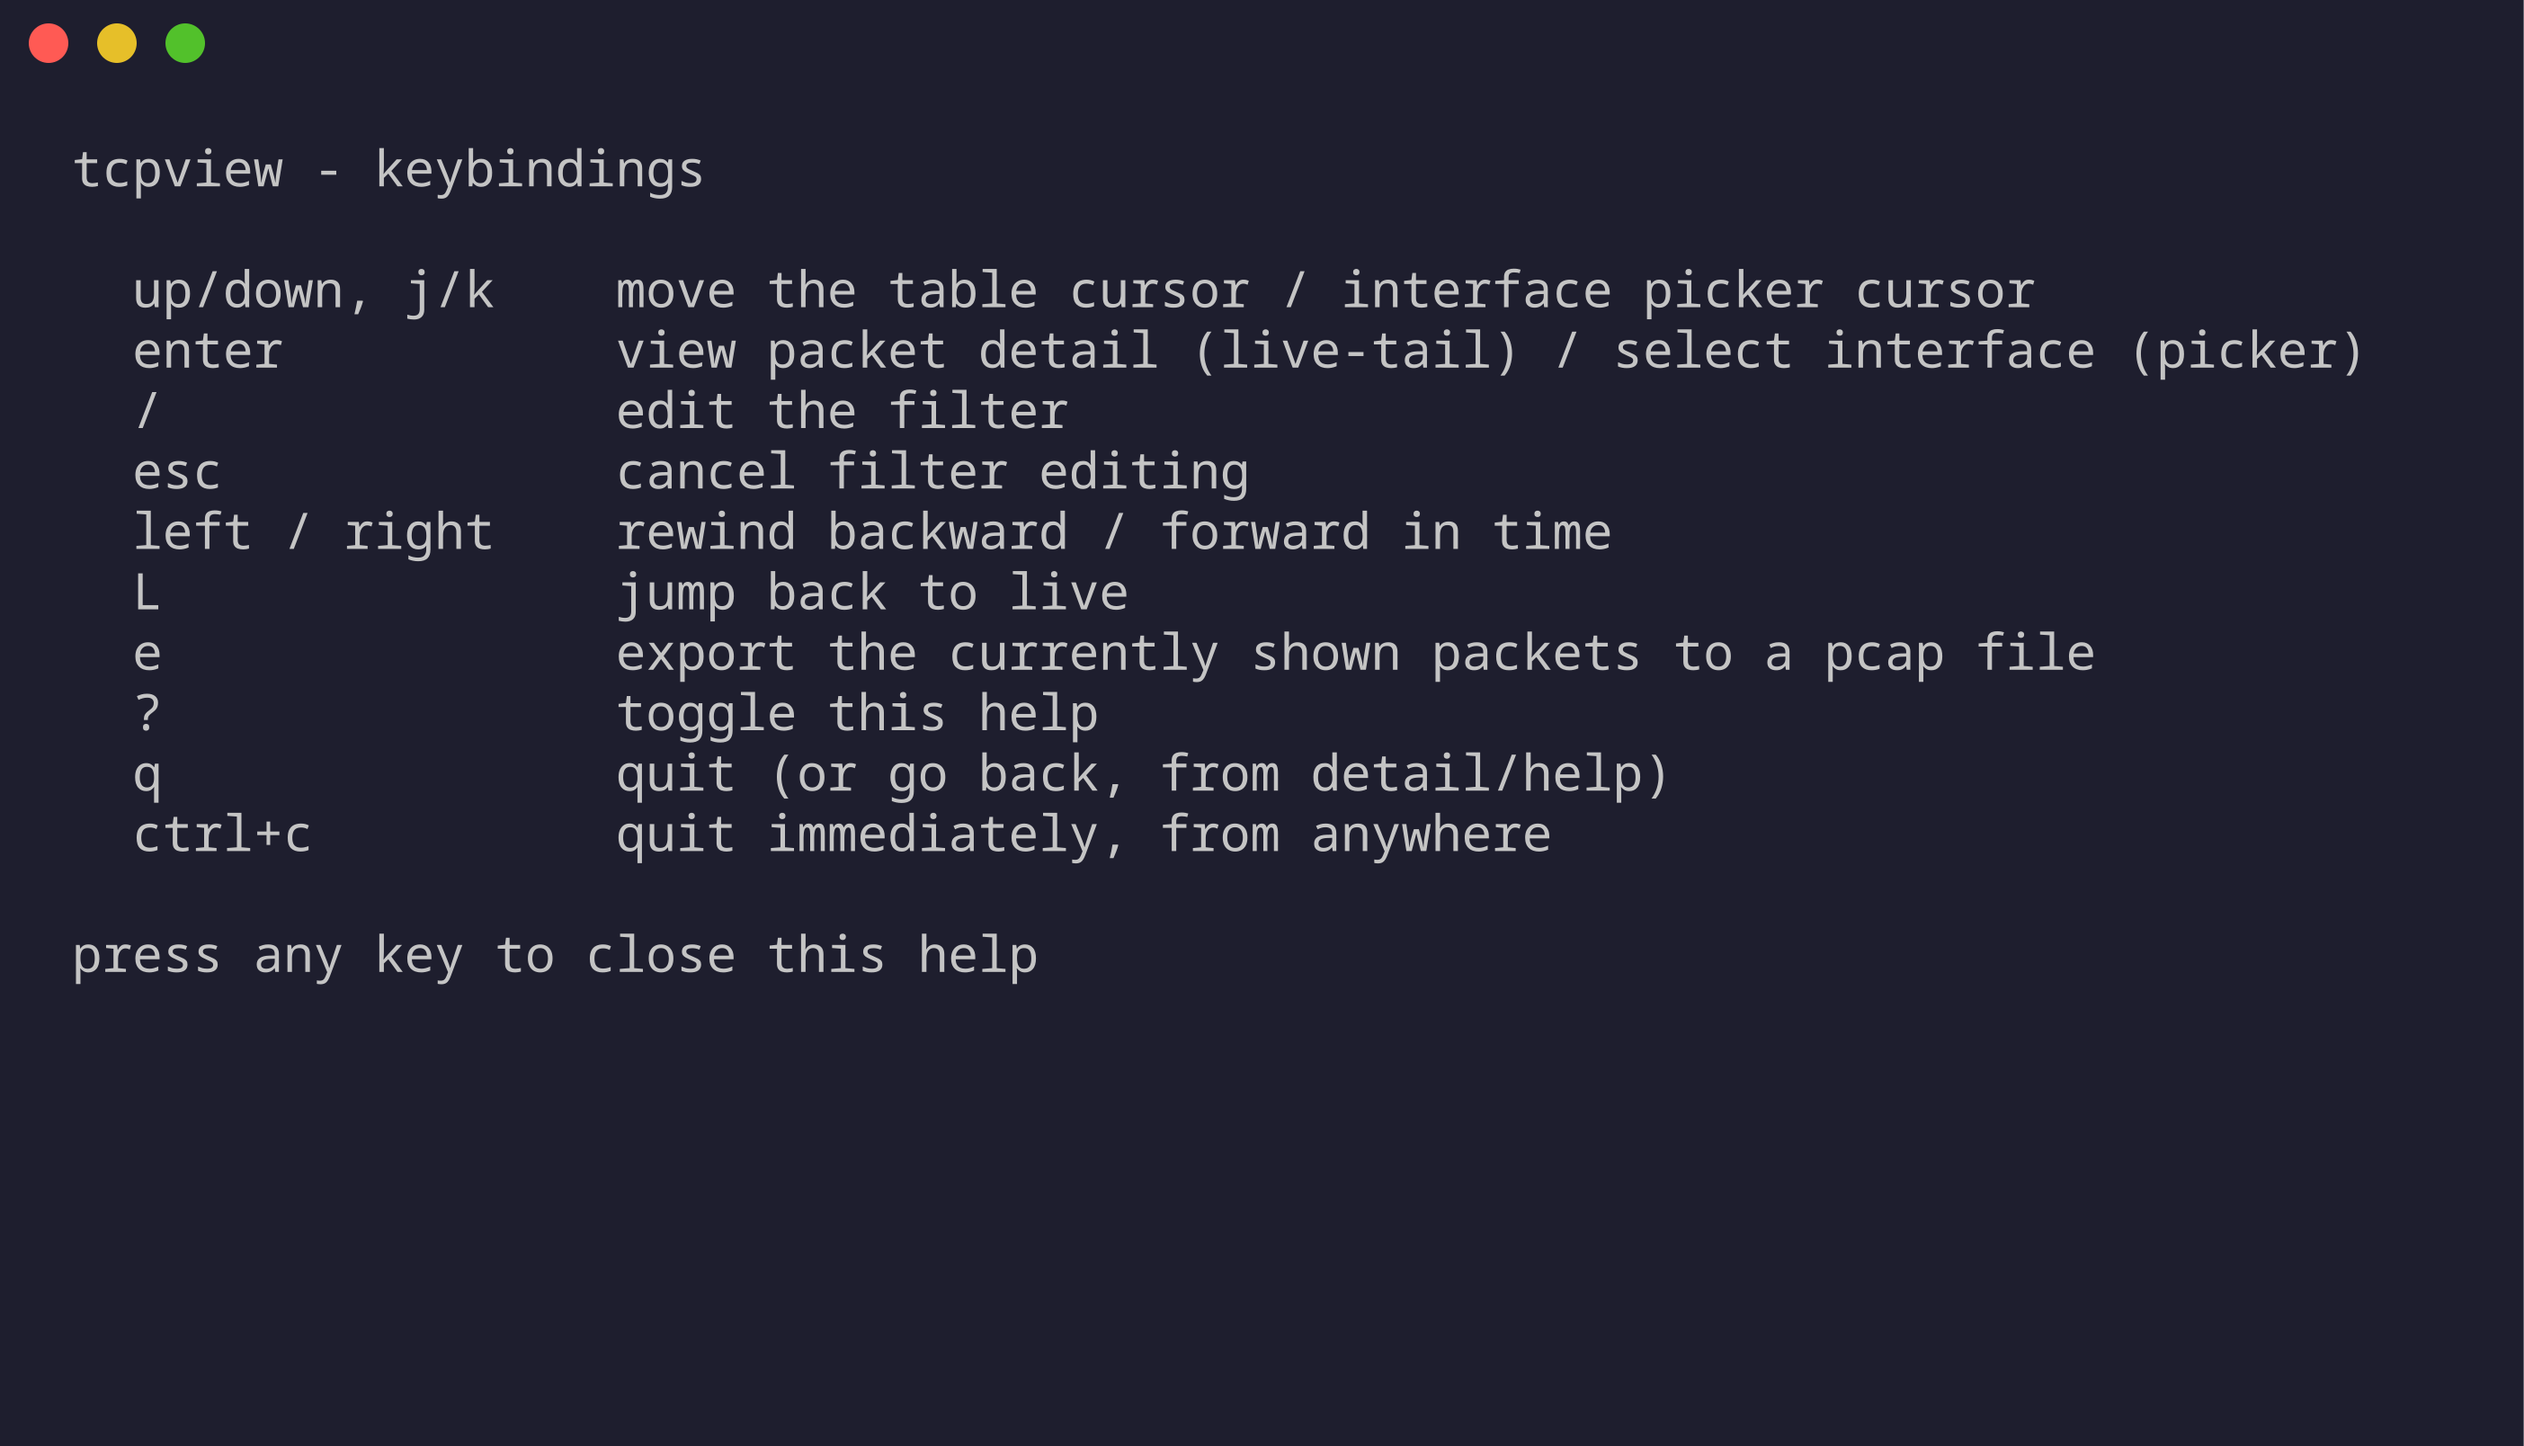
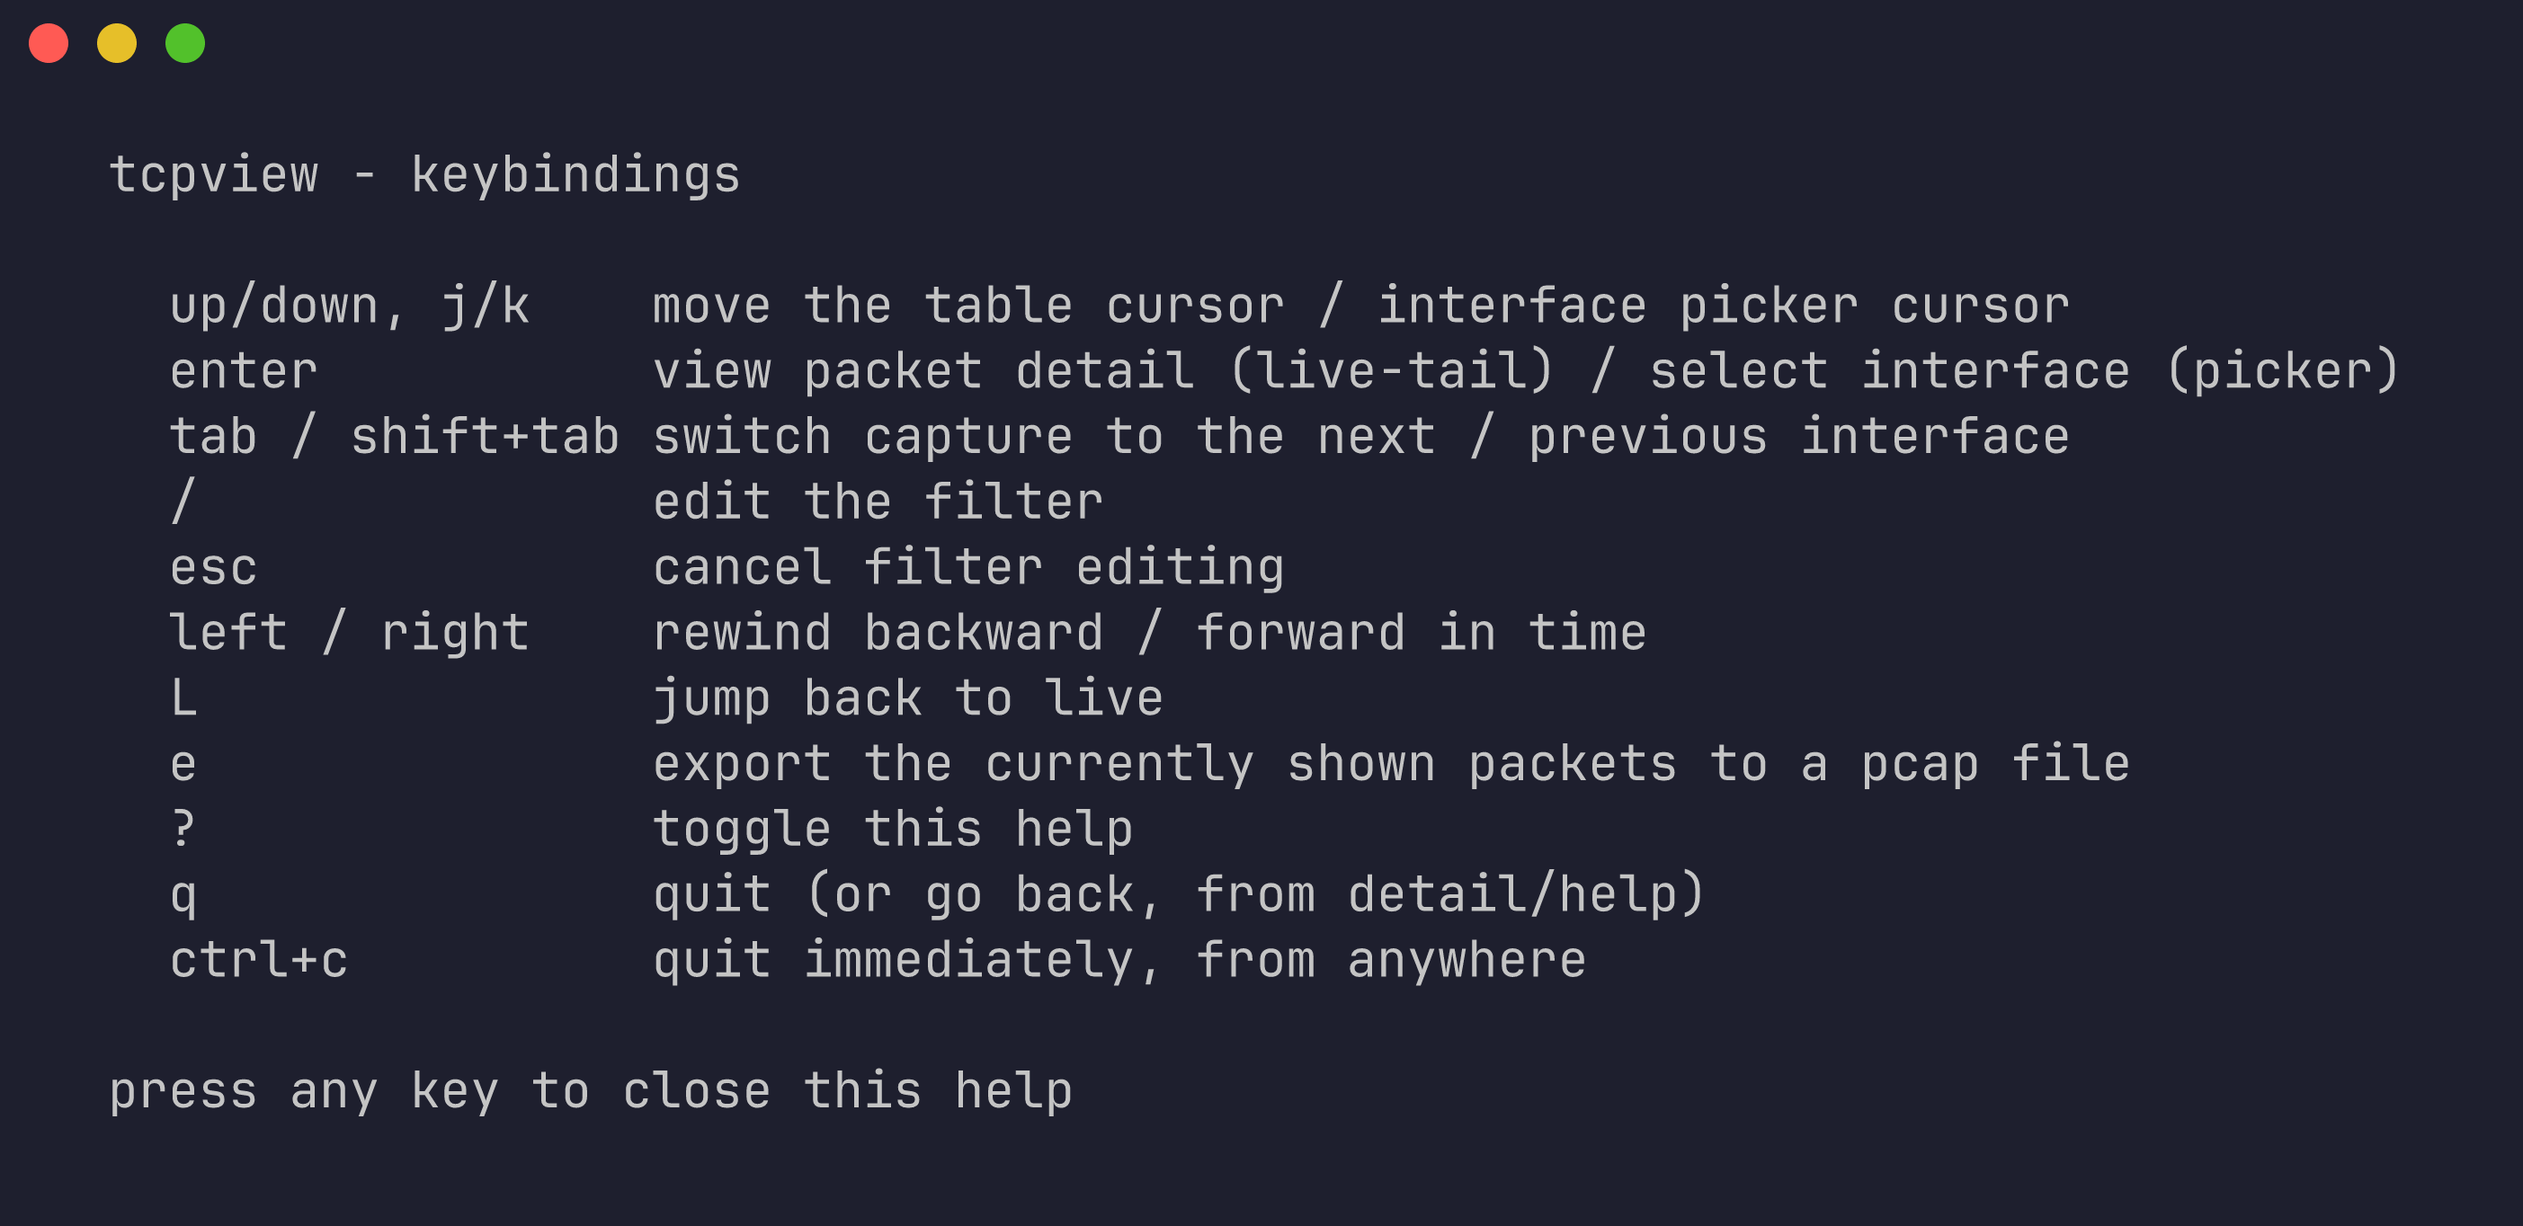
docs: refresh README screenshots for interface switching and remote picker
Retake every screenshot whose UI changed (live header now shows the
interface position and tab hint, help lists tab/shift+tab) from a real
capture, and add new ones for switching interfaces and the remote
interface picker/live view over a real SSH session.

diff --git a/README.md b/README.md
@@ -7,6 +7,8 @@ A terminal UI network traffic analyzer. No more remembering interface names, por
 - [Features](#features)
 - [A tour, in screenshots](#a-tour-in-screenshots)
   - [No `tcpdump -D` required](#no-tcpdump--d-required)
+  - [Flip through interfaces without restarting](#flip-through-interfaces-without-restarting)
+  - [Remote hosts get the same picker](#remote-hosts-get-the-same-picker)
   - [Filtering is live, not a restart](#filtering-is-live-not-a-restart)
   - [Rewind: the actually novel part](#rewind-the-actually-novel-part)
   - [Packet detail, down to the bytes](#packet-detail-down-to-the-bytes)
@@ -21,7 +23,7 @@ A terminal UI network traffic analyzer. No more remembering interface names, por
 - [Development](#development)
   - [CI / releases](#ci--releases)
 
-![tcpview live-tailing loopback traffic, filtered to proto=icmp](docs/screenshot.png)
+![tcpview live-tailing loopback traffic on lo (3 of 10 interfaces), filtered to proto=icmp](docs/screenshot.png)
 
 ## Features
 
@@ -41,9 +43,25 @@ Everything below is a real screenshot of real traffic captured on an actual mach
 
 Launching with no arguments lists every capturable interface by name and description - including the real-but-easy-to-forget ones like `any` (capture on everything at once) alongside physical NICs, bridges, and `nflog`/`nfqueue`. Pick one with `↑`/`↓` + `enter`; no prior knowledge of interface names needed.
 
-That first pick isn't final: once capturing, `tab` / `shift+tab` moves capture to the next / previous interface in the same list (wrapping at either end), so you can flip through every interface to see where traffic is actually flowing. Each switch starts the view fresh for the new interface and keeps your active filter; with the on-disk archive enabled, the previous interface's buffered packets are archived rather than dropped, so rewind can still reach them (filter on `iface=` to tell them apart).
-
 ![Interface picker listing real local interfaces](docs/screenshot-picker.png)
+
+### Flip through interfaces without restarting
+
+That first pick isn't final: once capturing, `tab` / `shift+tab` moves capture to the next / previous interface in the same list (wrapping at either end), so you can flip through every interface to see where traffic is actually flowing. The header always shows which one you're on. Here `shift+tab` has moved from the loopback capture above to `eth0`, where the only traffic is HTTPS out to the internet:
+
+![Live capture on eth0, interface 1 of 10, after switching with shift+tab](docs/screenshot-switch.png)
+
+Each switch starts the view fresh for the new interface and keeps your active filter; with the on-disk archive enabled, the previous interface's buffered packets are archived rather than dropped, so rewind can still reach them (filter on `iface=` to tell them apart).
+
+### Remote hosts get the same picker
+
+`-remote user@host` on its own runs `tcpdump -D` on the host over SSH and lists *its* interfaces in the same picker (these two were taken over a real SSH session, to `localhost`):
+
+![Interface picker listing a remote host's interfaces over SSH](docs/screenshot-remote-picker.png)
+
+From there it's the same UI, including `tab` / `shift+tab` to switch the remote capture between interfaces:
+
+![Live remote capture on root@localhost (lo), interface 3 of 10](docs/screenshot-remote-live.png)
 
 ### Filtering is live, not a restart
 
@@ -51,15 +69,15 @@ Press `/` and type an expression - `iface`, `src`, `dst`, `sport`, `dport`, `pro
 
 ![Typing a filter expression while traffic keeps streaming](docs/screenshot-filter-edit.png)
 
-Hit `enter` and the view narrows instantly against the *existing* buffer - no re-capture, no dropped history. Here it's narrowed a noisy multi-protocol capture down to exactly the real HTTPS flows on port 443:
+Hit `enter` and the view narrows instantly against the *existing* buffer - no re-capture, no dropped history. Here it's narrowed a noisy multi-protocol capture down to just the outbound HTTPS traffic, `dport=443 proto=tcp`:
 
-![1000 buffered packets narrowed down to 235 real HTTPS flows on dport=443](docs/screenshot-filter-applied.png)
+![1000 buffered packets narrowed down to 358 outbound HTTPS packets on dport=443](docs/screenshot-filter-applied.png)
 
 ### Rewind: the actually novel part
 
 This is the feature a plain `tcpdump`/Wireshark live-capture session can't give you: scrub backward in time with `←`/`→` to see traffic that already scrolled off-screen, without having had to pre-emptively start a recording. Recent history comes from an in-memory ring; anything older is transparently pulled from a bounded on-disk archive that rotates and prunes itself (see [Rewind archive flags](#rewind-archive-flags) below) - the UI doesn't care which, it just shows you what was happening at that point in time, filters and all:
 
-![REWOUND to a point 25 seconds in the past, showing real historical traffic](docs/screenshot-rewind.png)
+![REWOUND to a point in the past, showing 1468 real historical packets from the ring and the archive](docs/screenshot-rewind.png)
 
 ### Packet detail, down to the bytes
 
